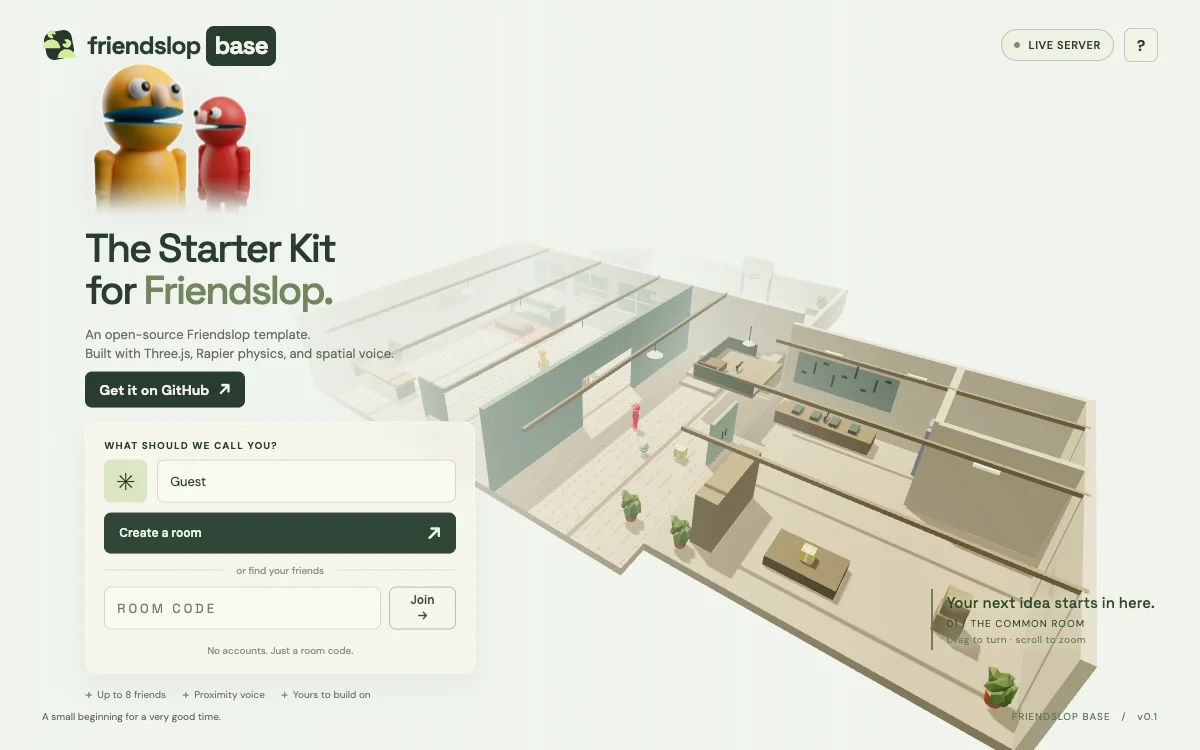
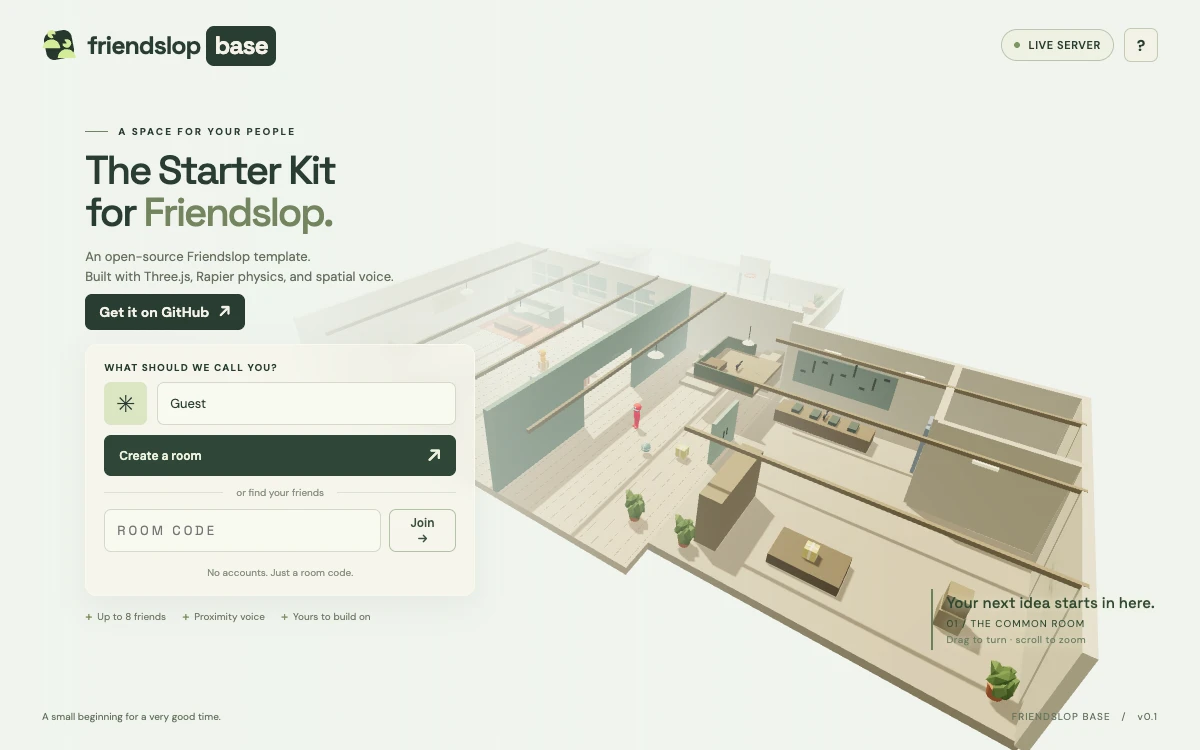
Remove unused lobby character styles and update main lobby content

diff --git a/src/client/main.ts b/src/client/main.ts
@@ -22,7 +22,7 @@ const $ = <T extends HTMLElement = HTMLElement>(id: string) =>
   document.getElementById(id) as T;
 $("app").innerHTML = `<div id="world"></div><div id="shade" class="shade"></div>
 <header class="topbar"><button id="about-button" class="brand" aria-label="About Friendslop Base"><span class="brand-mark"><svg viewBox="0 0 192 192" aria-hidden="true"><rect x="17" y="17" width="158" height="158" rx="46" fill="#26382d" transform="rotate(-11 96 96)"/><g fill="#d5ec99"><path d="M53.5 34.5L65.95 54.43A23.5 23.5 0 1 1 76.87 36.96Z"/><path d="M4 114a49.5 49.5 0 0 1 99 0Z"/><path d="M140 87.5L126.02 66.77A25 25 0 1 1 115 87.5Z"/><path d="M89 170a50.5 50.5 0 0 1 101 0Z"/></g></svg></span><span class="brand-word">friendslop <b>base</b></span><small></small></button><div id="top-actions" class="top-actions"><span id="net-mode" class="pill net-mode" hidden><i class="dot"></i> <span id="net-mode-text"></span></span><button id="help-button" class="icon-button" aria-label="Controls and help">?</button></div></header>
-<main id="lobby" class="lobby"><div class="lobby-characters" aria-hidden="true"><img src="/character.webp" alt="Friendslop characters"></div><h1><span class="line"><span>The Starter Kit</span></span><span class="line"><span>for <em>Friendslop.</em></span></span></h1><p class="intro">An open-source Friendslop template.<br>Built with Three.js, Rapier physics, and spatial voice.</p><a class="github-button" href="https://github.com/larshurrelb/friendslop-base" target="_blank" rel="noopener noreferrer" aria-label="Get Friendslop Base on GitHub">Get it on GitHub <span class="github-arrow" aria-hidden="true">↗</span></a><form id="entry" class="entry-card"><label for="name">WHAT SHOULD WE CALL YOU?</label><div class="name-input"><div class="avatar-chip">✳</div><input id="name" aria-label="Your name" autocomplete="nickname" maxlength="20" placeholder="Your name" required value="Guest"></div><button class="primary" id="create" type="submit">Create a room <span>↗</span></button><div class="separator">or find your friends</div><div class="join-row"><input id="join-code" aria-label="Room code" placeholder="ROOM CODE" maxlength="6" autocomplete="off"><button id="join" type="button">Join →</button></div><div class="entry-note">No accounts. Just a room code.</div><p id="entry-error" class="error" hidden></p></form><div class="lobby-foot"><span>Up to 8 friends</span><span>Proximity voice</span><span>Yours to build on</span></div><p class="mobile-notice">A keyboard and mouse are required to play.</p></main>
+<main id="lobby" class="lobby"><div class="eyebrow">A space for your people</div><h1><span class="line"><span>The Starter Kit</span></span><span class="line"><span>for <em>Friendslop.</em></span></span></h1><p class="intro">An open-source Friendslop template.<br>Built with Three.js, Rapier physics, and spatial voice.</p><a class="github-button" href="https://github.com/larshurrelb/friendslop-base" target="_blank" rel="noopener noreferrer" aria-label="Get Friendslop Base on GitHub">Get it on GitHub <span class="github-arrow" aria-hidden="true">↗</span></a><form id="entry" class="entry-card"><label for="name">WHAT SHOULD WE CALL YOU?</label><div class="name-input"><div class="avatar-chip">✳</div><input id="name" aria-label="Your name" autocomplete="nickname" maxlength="20" placeholder="Your name" required value="Guest"></div><button class="primary" id="create" type="submit">Create a room <span>↗</span></button><div class="separator">or find your friends</div><div class="join-row"><input id="join-code" aria-label="Room code" placeholder="ROOM CODE" maxlength="6" autocomplete="off"><button id="join" type="button">Join →</button></div><div class="entry-note">No accounts. Just a room code.</div><p id="entry-error" class="error" hidden></p></form><div class="lobby-foot"><span>Up to 8 friends</span><span>Proximity voice</span><span>Yours to build on</span></div><p class="mobile-notice">A keyboard and mouse are required to play.</p></main>
 <div id="scene-caption" class="scene-caption"><b>Your next idea starts in here.</b><small>01 / THE COMMON ROOM</small><small class="drag-hint">Drag to turn · scroll to zoom</small></div>
 <footer id="footer" class="footer"><span>A small beginning for a very good time.</span><span class="version">FRIENDSLOP BASE &nbsp; / &nbsp; v0.1</span></footer>
 <div id="hud" class="hud" hidden><div class="room-bar"><div><small>YOUR ROOM</small><span id="room-code" class="room-code">------</span></div><button id="copy-room" aria-label="Copy room invite">Copy invite ↗</button><span id="player-count" class="count">1 / 8</span></div><div id="crosshair" class="crosshair"></div><div id="hitflash" class="hitflash"></div><div id="interact" class="interact" hidden></div><div class="bottom-left"><span class="zone-icon">⌂</span><div><div id="zone-name" class="zone-name">The common room</div><div id="zone-desc" class="zone-desc">SMALL ROOM · SOFT REFLECTIONS</div></div></div><div class="voice-controls"><button id="enable-voice">Enable voice</button><button id="mute" hidden aria-label="Mute microphone">Mic on</button><select id="voice-mode" aria-label="Microphone mode"><option value="open">Open mic</option><option value="ptt">Push to talk</option></select><span id="speaking-light" class="speaking-light"></span></div><div class="bottom-right"><button id="friends-button">Friends <span id="friend-number">1</span></button><button id="debug-button">Diagnostics <span>⌁</span></button></div><div id="pause" class="pause"><div class="eyebrow" style="justify-content:center">You’re in good company</div><h2>Make yourself at home.</h2><p>Explore the room and bring a friend.<br>There’s nothing to win. Yet.</p><button id="resume" class="primary">Click to explore →</button><small>WASD to move · Mouse to look · Esc to pause</small></div></div>

diff --git a/src/client/style.css b/src/client/style.css
@@ -369,34 +369,7 @@ label {
   font-size: 13px;
   color: #809366;
 }
-.lobby-characters {
-  width: 235px;
-  margin-bottom: 12px;
-  pointer-events: none;
-  user-select: none;
-}
-.lobby-characters img {
-  display: block;
-  width: 100%;
-  height: auto;
-  filter: drop-shadow(0 14px 24px rgba(41, 60, 50, 0.08));
-}
-@media (max-width: 900px) {
-  .lobby-characters {
-    width: 195px;
-    margin-bottom: 10px;
-  }
-}
-@media (max-width: 600px) {
-  .lobby-characters {
-    display: none;
-  }
-}
 @media (max-height: 820px) {
-  .lobby-characters {
-    width: 175px;
-    margin-bottom: 6px;
-  }
   h1 {
     font-size: 40px;
     margin: 12px 0 10px;
@@ -938,7 +911,6 @@ body.turning * {
   .ready .intro,
   .ready .github-button,
   .ready .entry-card,
-  .ready .lobby-characters,
   .ready .lobby-foot,
   .ready .mobile-notice,
   .ready .scene-caption {
@@ -952,9 +924,6 @@ body.turning * {
   }
   .ready .top-actions {
     animation-delay: 0.13s;
-  }
-  .ready .lobby-characters {
-    animation-delay: 0.12s;
   }
   .ready .eyebrow {
     animation-delay: 0.18s;
